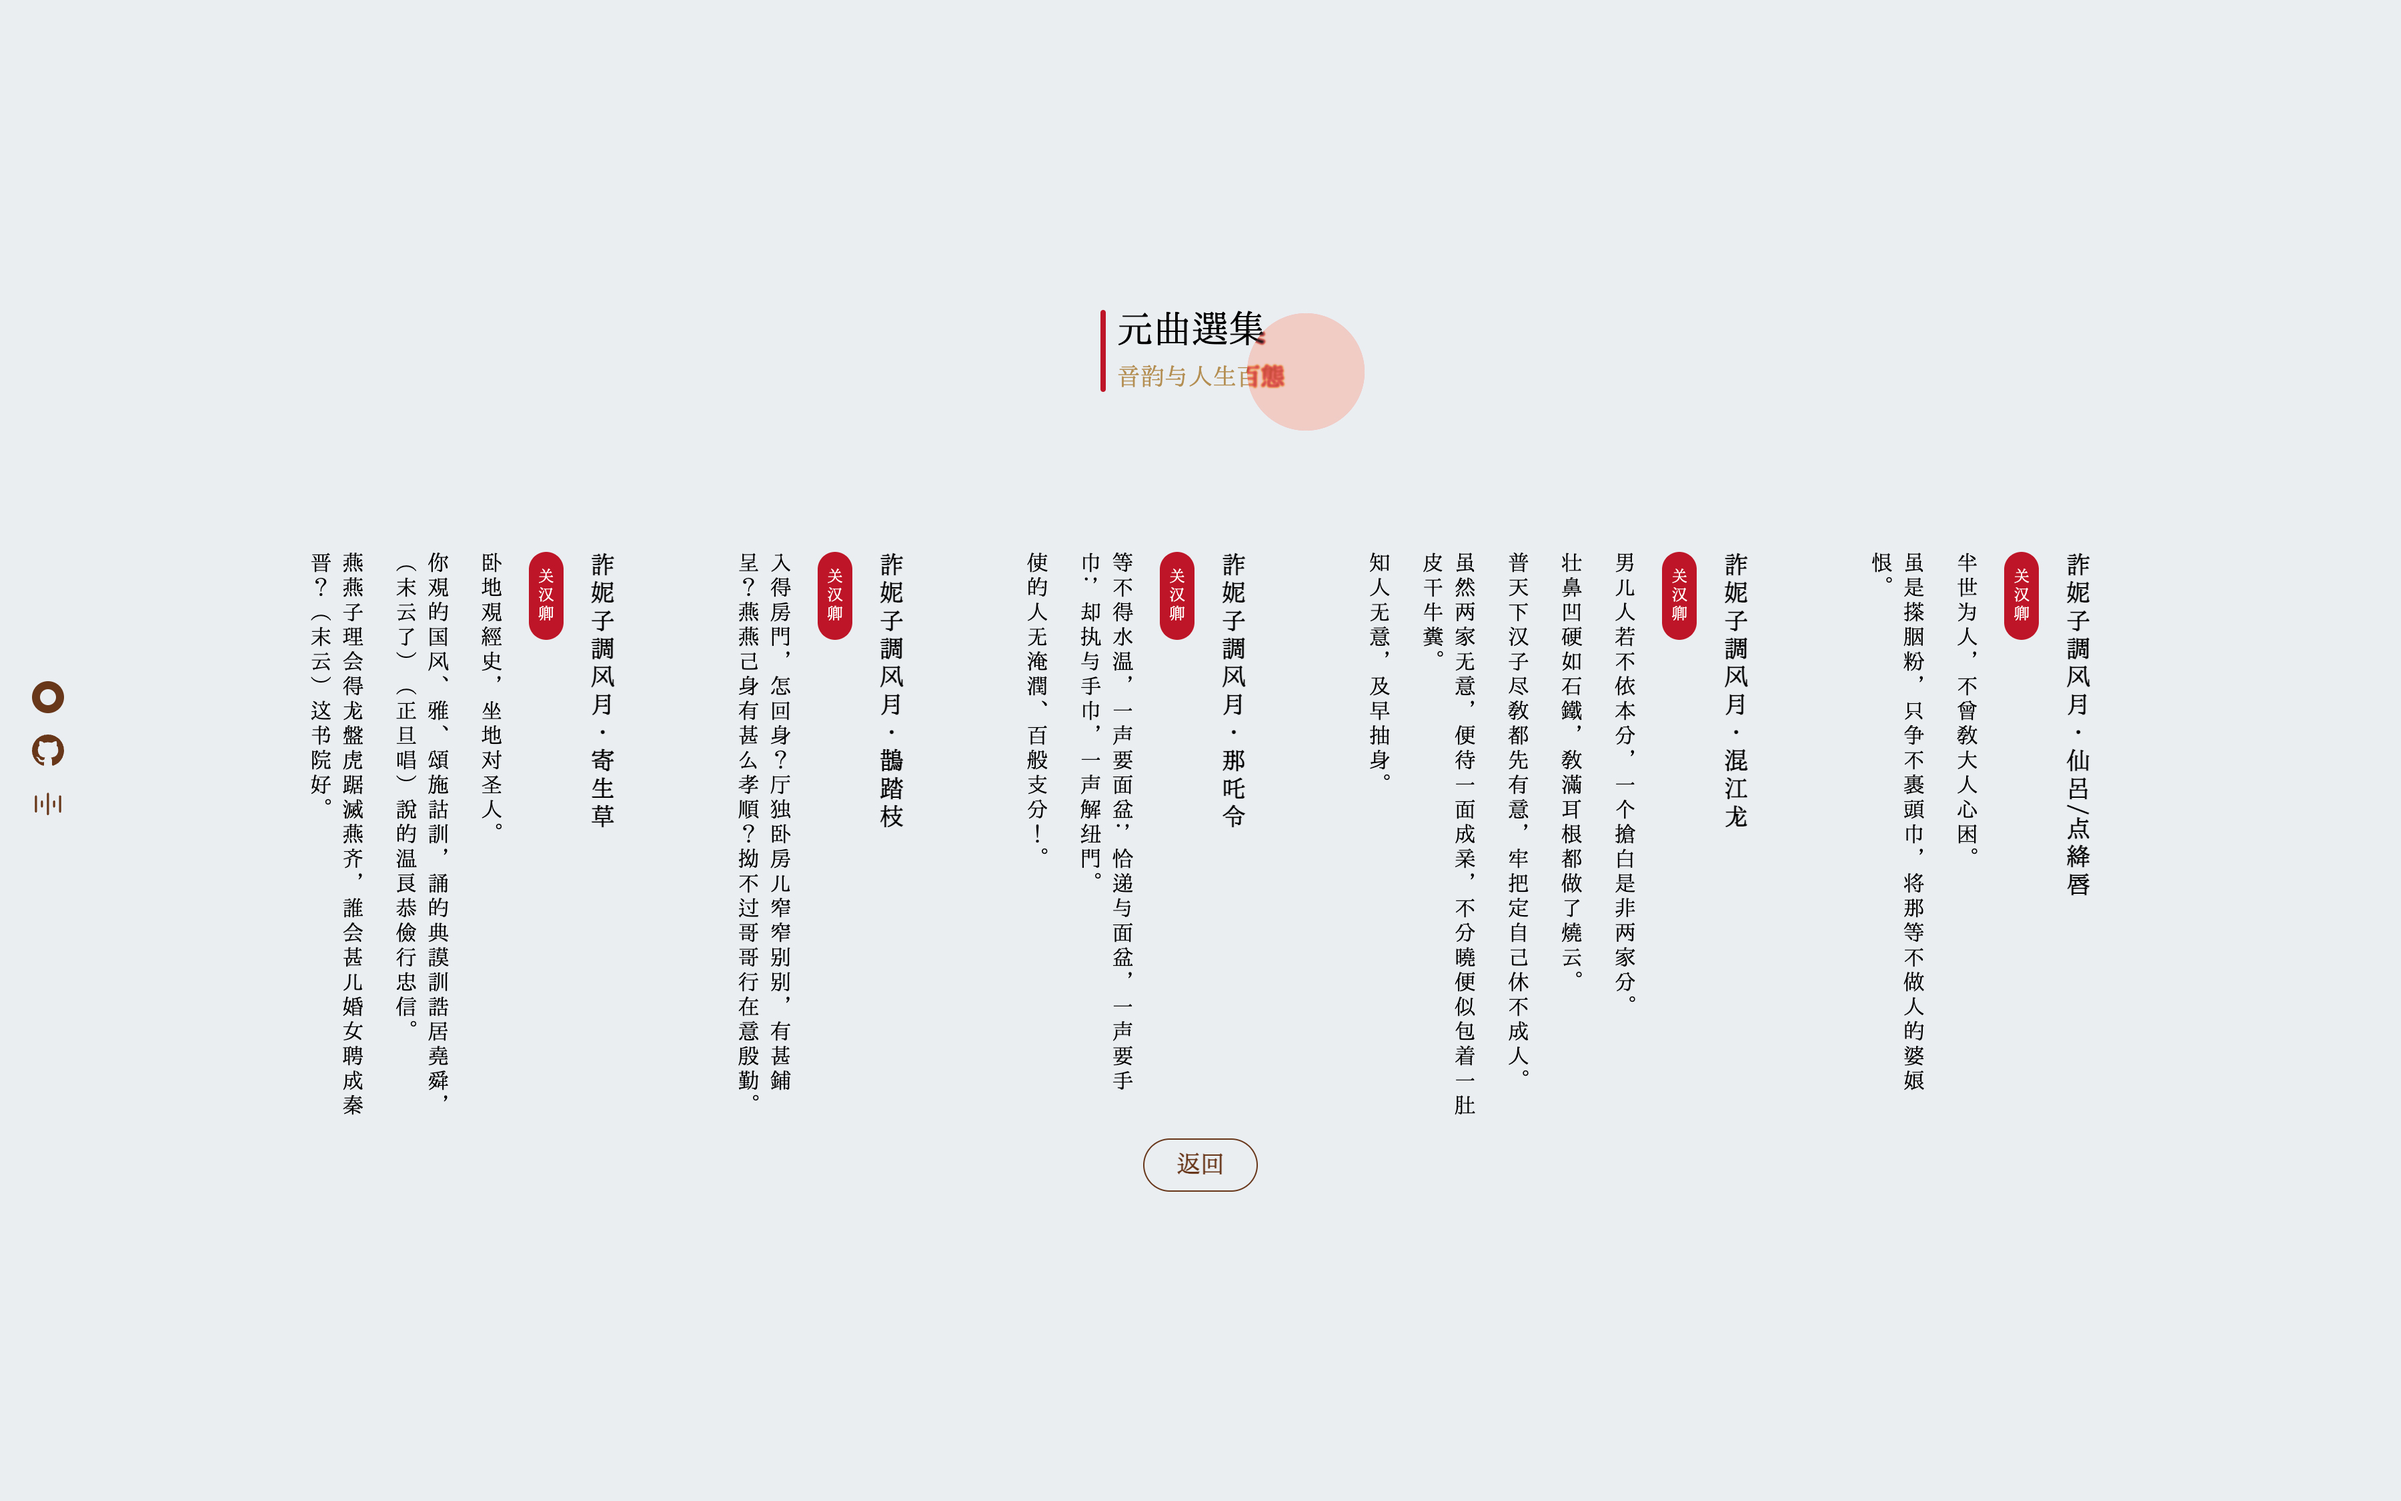
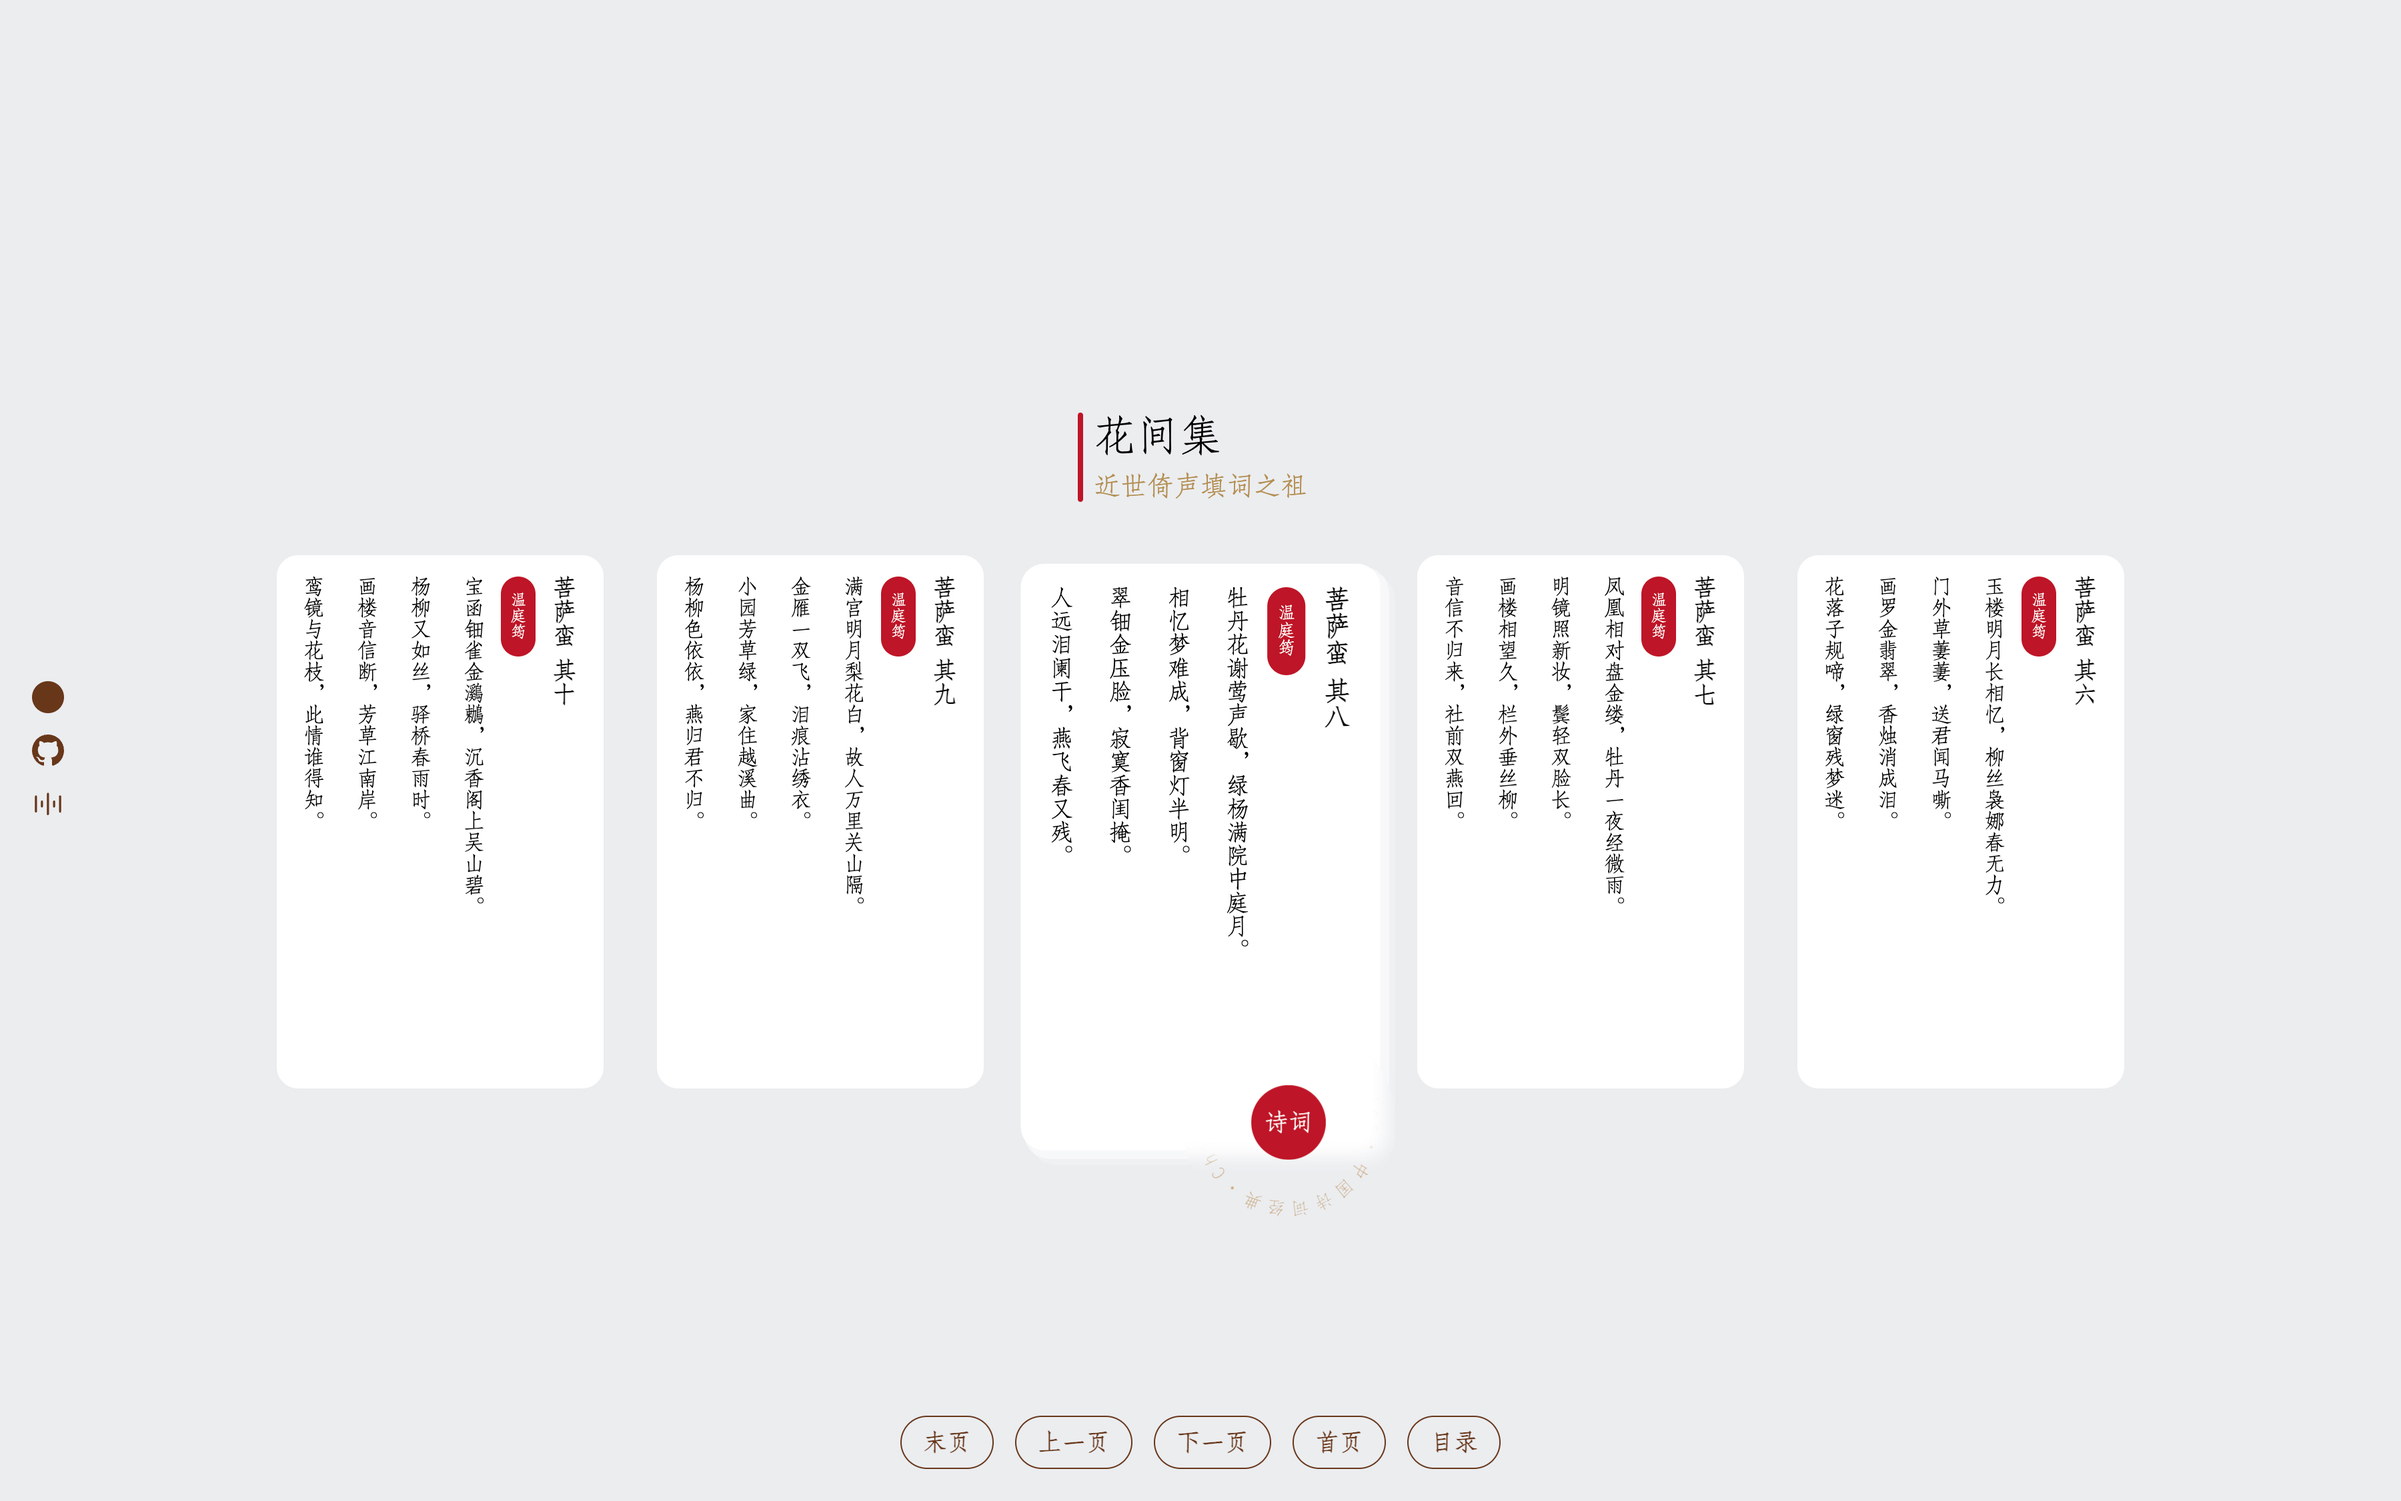
update style etc.

diff --git a/src/components/PoemList.vue b/src/components/PoemList.vue
@@ -48,12 +48,6 @@ const show = defineModel("show", {
   type: Boolean
 })
 const loading = ref(true)
-const position = ref(0)
-const contentStyle = computed(() => {
-  return {
-    transform: `translateX(${position.value}%)`
-  }
-})
 const reload = () => {
   loading.value = true;
   setTimeout(() => {
@@ -95,21 +89,20 @@ watchEffect(() => {
          @mouseenter="cursorState.setCursor('large','下一页')"
          @click="handleNext"></div>
     <div class="poems-list" @mouseenter="cursorState.setCursor('default')">
-      <div class="poems-list-content"
-           v-if="!loading"
-           :style="contentStyle"
-      >
+      <div class="poems-list-content" v-if="!loading">
         <template v-for="(item,index) in poemsList">
           <poem-item
-              :delay="100+ index * 200"
+              :delay="index * 200"
               :data="item"/>
         </template>
       </div>
     </div>
     <div class="btn-group">
-      <p-button v-if="current > 1" text="上一页" @click="handlePre"/>
+      <p-button direction="top" v-if="current < totalPage" text="末页" @click="current = totalPage"/>
+      <p-button direction="left" v-if="current > 1" text="上一页" @click="handlePre"/>
       <p-button v-if="current < totalPage" text="下一页" @click="handleNext"/>
-      <p-button @click="back" text="返回"/>
+      <p-button direction="top" v-if="current > 1" text="首页" @click="current = 1"/>
+      <p-button direction="top" @click="back" text="目录"/>
     </div>
   </div>
 </template>
@@ -144,8 +137,8 @@ watchEffect(() => {
     position: relative;
     font-size: 16px;
     width: calc(100% - 240px);
-    height: 400px;
-    overflow: hidden;
+    //height: 400px;
+    //overflow: hidden;
 
 
     .poems-list-content {
@@ -154,7 +147,7 @@ watchEffect(() => {
       display: flex;
       flex-direction: column;
       justify-content: center;
-      gap: 48px;
+      gap: 40px;
       transition: all ease .3s;
     }
   }
@@ -171,9 +164,14 @@ watchEffect(() => {
   }
 
   .btn-group {
+    left: 0;
+    bottom: 0;
+    width: 100%;
+    padding: 24px 0;
+    position: absolute;
     display: flex;
     justify-content: center;
-    gap: 24px;
+    gap: 16px;
   }
 }
 

diff --git a/src/components/PoemItem.vue b/src/components/PoemItem.vue
@@ -4,7 +4,7 @@ import {IPoem} from "@/type";
 import userMotion from "@/hooks/useMotion";
 import PoemDetail from "./PoemDetail.vue"
 
-const {initial, enter} = userMotion().fadeIn;
+const {initial, enter, leave} = userMotion().fadeIn;
 
 defineProps({
   data: {
@@ -28,6 +28,7 @@ const showDetail = ref(false)
       v-motion
       :initial="initial"
       :enter="enter"
+      :leave="leave"
       :delay="delay"
   >
     <div class="poems-list-item-title">{{ data.title }}</div>
@@ -49,11 +50,20 @@ const showDetail = ref(false)
 .poems-list-item {
   display: flex;
   flex-direction: column;
-  gap: 16px;
+  gap: 8px;
   flex-wrap: wrap;
-  max-height: 440px;
+  height: 400px;
   line-height: 1.5;
   cursor: pointer;
+  background: rgba(255, 255, 255, 1);
+  padding: 16px;
+  border-radius: 16px;
+  transition: all ease-in-out .5s;
+
+  &:hover {
+    transform: scale(1.1) translateY(24px) !important;
+    box-shadow: 4px 4px 0 2px rgba(255, 255, 255, .5), 8px 8px 0 2px rgba(255, 255, 255, .2);
+  }
 
   .poems-list-item-title {
     font-size: 18px;
@@ -74,6 +84,8 @@ const showDetail = ref(false)
     display: flex;
     flex-direction: column;
     gap: 16px;
+    max-width: 200px;
+    overflow: hidden;
   }
 }
 

diff --git a/src/hooks/useMotion.ts b/src/hooks/useMotion.ts
@@ -49,18 +49,18 @@ export default function () {
     const slideDown = reactive<IMotionOption>({
         initial: {
             opacity: 0,
-            filter: "blur(20px)",
-            x: 480
+            filter: "blur(8px)",
+            y: -100
         },
         enter: {
             opacity: 1,
             filter: "blur(0px)",
-            x: 0
+            y: 0
         },
         leave: {
             opacity: 0,
-            filter: "blur(20px)",
-            y: -40
+            filter: "blur(10px)",
+            y: -200
         }
     })
     return {

diff --git a/src/components/kits/Modal.vue b/src/components/kits/Modal.vue
@@ -30,6 +30,7 @@ defineProps({
         <div class="modal-footer">
           <p-button
               text="关闭"
+              direction="bottom"
               @mouseenter="cursorState.setCursor('mini','')"
               @mouseleave="cursorState.setCursor('default')"
               @click="visible = false"
@@ -68,7 +69,7 @@ defineProps({
   .modal-content {
     width: 100%;
     height: 100%;
-    padding: 16px 0;
+    padding: 0 40px;
   }
 }
 </style>

diff --git a/src/assets/scss/variable.scss b/src/assets/scss/variable.scss
@@ -1,5 +1,5 @@
 $base-bg: #EEE1D1;
-$color-light: #EBEEE8; // #EBE3C7 // #EBEEE8
+$color-light: #eaedef; // #EBE3C7 // #EBEEE8
 $color-gold: #B48F53;
 $color-red: #BE1528;
 $color-green-dark: #2A6E3F;

diff --git a/src/components/PoetryItem.vue b/src/components/PoetryItem.vue
@@ -59,7 +59,7 @@ const handleClick = (data: IPoetry) => {
 
   &.is-active {
     writing-mode: initial;
-    margin-bottom: 80px;
+    // margin-bottom: 80px;
 
     &::before {
       width: 4px;

diff --git a/README.md b/README.md
@@ -11,3 +11,4 @@ yarn dev
 ![1.jpg](./screenshot/1.jpg)
 ![2.jpg](./screenshot/2.jpg)
 ![3.jpg](./screenshot/3.jpg)
+![4.jpg](./screenshot/4.jpg)
